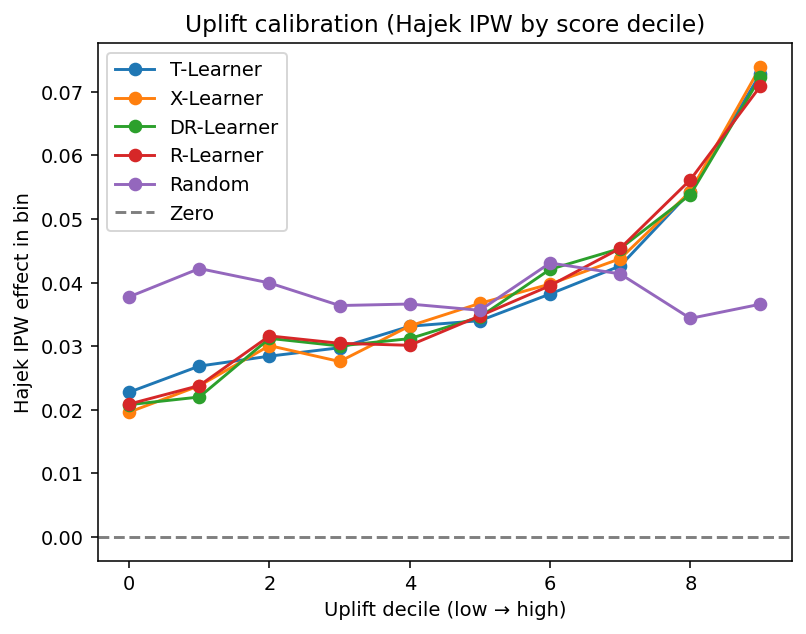
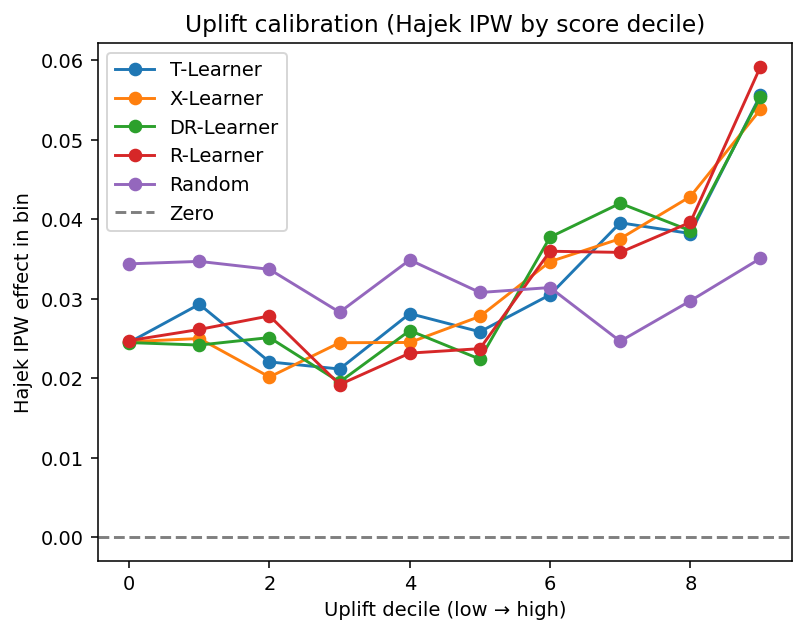
Weight X-learner CATE predictions by propensity and refresh eval defaults

diff --git a/models/uplift.py b/models/uplift.py
@@ -25,11 +25,21 @@ class TLearner:
 
 
 class XLearner:
+    """
+    Kunzel et al. X-learner: stage-two CATE surfaces are blended with propensity weights
+      τ̂(x) = ê(x) τ̂₀(x) + (1 − ê(x)) τ̂₁(x)
+    so the model trained on the larger / more-supported arm gets more mass when ê is skewed.
+    """
+
     def __init__(self) -> None:
         self.m0 = GradientBoostingRegressor(**gb_params)
         self.m1 = GradientBoostingRegressor(**gb_params)
+        self.propensity = GradientBoostingClassifier(**gb_params)
 
     def fit(self, X: np.ndarray, t: np.ndarray, y: np.ndarray) -> None:
+        t = np.asarray(t)
+        self.propensity.fit(X, t.astype(int))
+
         X0, y0 = X[t == 0], y[t == 0]
         X1, y1 = X[t == 1], y[t == 1]
 
@@ -46,7 +56,13 @@ class XLearner:
         self.m3.fit(X0, d0)
 
     def predict_uplift(self, X: np.ndarray) -> np.ndarray:
-        return 0.5 * (self.m2.predict(X) + self.m3.predict(X))
+        e = np.clip(
+            self.propensity.predict_proba(X)[:, 1],
+            PROPENSITY_CLIP_LOW,
+            PROPENSITY_CLIP_HIGH,
+        )
+        # m3 = τ̂ learned from control pseudo-effects; m2 = τ̂ from treated pseudo-effects.
+        return e * self.m3.predict(X) + (1.0 - e) * self.m2.predict(X)
 
 
 class DRLearner:

diff --git a/config.py b/config.py
@@ -8,7 +8,7 @@ import math
 RANDOM_SEED = 0
 
 # Data generation (ads DGP)
-N_SAMPLES_DEFAULT = 400_000
+N_SAMPLES_DEFAULT = 20_000
 
 BETA_INTENT_A = 2
 BETA_INTENT_B = 5
@@ -17,7 +17,7 @@ CONTEXT_MEAN = 0.0
 CONTEXT_STD = 1.0
 
 TREATMENT_PROB_INTERCEPT = 0.1
-TREATMENT_PROB_SLOPE = 0.7
+TREATMENT_PROB_SLOPE = 0.3
 
 OUTCOME_BASE = 0.02
 OUTCOME_INTENT_COEF = 0.08
@@ -48,7 +48,7 @@ PROPENSITY_CLIP_HIGH = 0.99
 
 # Evaluation / metrics
 HOLDOUT_TEST_SIZE = 0.4
-MONTE_CARLO_SPLITS = 3
+MONTE_CARLO_SPLITS = 50
 DEFAULT_POLICY_TOP_K = 0.2
 QINI_N_BINS = 20
 # Smallest *nominal* fraction on the grid (actual first point may be larger if min prefix applies).

diff --git a/README.md b/README.md
@@ -42,7 +42,7 @@ which makes it possible to score models on both **observed (IPW-adjusted)** outc
 - **X-Learner**
   - First learns treated/control outcome models.
   - Builds imputed treatment effects for each group.
-  - Learns effect models from those imputed targets, then combines them.
+  - Learns effect models from those imputed targets, then combines them with propensity weights: `τ̂(x) = ê(x) τ̂₀(x) + (1 − ê(x)) τ̂₁(x)` (more weight on the surface trained where assignment is more likely).
 - **DR-Learner**
   - Learns propensity `e(X)` and outcome models `μ1(X)`, `μ0(X)`.
   - Builds a doubly robust pseudo-outcome and regresses it to estimate `τ(X)`.
@@ -72,17 +72,17 @@ which makes it possible to score models on both **observed (IPW-adjusted)** outc
 
 **Oracle policy value (true `τ`, top fraction):** 0.063  
 
-**Holdout Monte Carlo:** 3 splits  
+**Holdout Monte Carlo:** 50 splits  
 
-**Qini Δ:** Qini raw minus the median of 100 random-ranking AUCs (**0.036**, averaged across splits). Models ranked by Qini Δ, with Corr (true) as tie-breaker.
+**Qini Δ:** Qini raw minus the median of 100 random-ranking AUCs (**0.030**, averaged across splits). Models ranked by Qini Δ, with Corr (true) as tie-breaker.
 
 | Rank | Model | Qini Δ (vs null) | Qini raw | Policy (IPW obs) | Policy (true `τ`) | Regret (true `τ`) | Avg uplift | Corr (true) |
 |------|--------|---------------------------|----------|------------------|------------------------|------------------------|------------|-------------|
-| 1 | X-Learner | 0.013 | 0.049 | 0.064 | 0.063 | 0.000 | 0.038 | 0.929 |
-| 2 | R-Learner | 0.012 | 0.049 | 0.063 | 0.062 | 0.001 | 0.038 | 0.875 |
-| 3 | DR-Learner | 0.012 | 0.049 | 0.063 | 0.063 | 0.001 | 0.038 | 0.873 |
-| 4 | T-Learner | 0.012 | 0.048 | 0.064 | 0.062 | 0.001 | 0.039 | 0.853 |
-| 5 | Random | 0.000 | 0.036 | 0.035 | 0.039 | 0.025 | −0.000 | 0.001 |
+| 1 | X-Learner | 0.009 | 0.039 | 0.051 | 0.049 | 0.014 | 0.033 | 0.346 |
+| 2 | DR-Learner | 0.009 | 0.039 | 0.050 | 0.049 | 0.014 | 0.032 | 0.280 |
+| 3 | R-Learner | 0.009 | 0.039 | 0.053 | 0.049 | 0.014 | 0.031 | 0.251 |
+| 4 | T-Learner | 0.008 | 0.038 | 0.051 | 0.048 | 0.015 | 0.032 | 0.276 |
+| 5 | Random | 0.000 | 0.030 | 0.033 | 0.039 | 0.025 | 0.000 | −0.003 |
 
 ### How to read these results
 
@@ -92,7 +92,7 @@ which makes it possible to score models on both **observed (IPW-adjusted)** outc
 
 ### Key takeaway
 
-X-, R-, DR-, and T-Learners all beat the random baseline on Qini Δ and achieve policy value near the oracle on true `τ`. X-Learner has the strongest overall alignment by `Corr (true)`, with R-Learner and DR-Learner close behind, while Random stays near zero correlation and has much higher regret.
+All meta-learners beat the random baseline on **Qini Δ**; **X-Learner** ranks first on Qini Δ and **Corr (true)**. DR- and R-Learners tie X on Qini Δ; T-Learner is close behind. Random has near-zero correlation and the highest regret. Policy value on true `τ` (~0.049) is below the oracle (0.063) with the current sample size and assignment strength.
 
 ## Figures
 